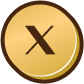
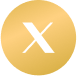
done

diff --git a/src/App.css b/src/App.css
@@ -59,7 +59,19 @@ ul {
   padding-left: 0 !important;
   margin: 0 !important;
 }
-
+.social-icons {
+  position: relative;
+  z-index: 1;
+}
+.social-icons a {
+  border: 3px solid #472610;
+  border-radius: 50px;
+  transition: .4s all;
+}
+.social-icons a:focus,
+.social-icons a:hover{
+  border-color: #fff;
+}
 .main-header {
   padding: 10px 0;
   position: sticky;
@@ -124,7 +136,7 @@ header.main-header.scrolled {
 }
 
 .banner-section a img {
-  box-shadow: 0 5px 12px 0 rgb(14 43 106 / 65%);
+  /* box-shadow: 0 5px 12px 0 rgb(14 43 106 / 65%); */
   border-radius: 50px;
 }
 .follow-us {
@@ -728,12 +740,22 @@ img.vert-move {
   width: 100%;
   max-width: 75%;
 }
+.bigboss-presale h2 {
+  font-size: 28px;
+  font-weight: 700;
+  color: #472610;
+  margin: 0;
+  padding: 10px 0px;
+}
 .banner-calc-inner {
   background: url(../src/images/big-boss-presale-bg.png) no-repeat center;
   background-size: cover;
-  border-radius: 30px 30px 0 0;
   padding-inline: 30px;
   padding-top: 20px;
+  border-top: 5px solid #472610;
+  border-bottom: 5px solid #472610;
+  padding-bottom: 15px;
+
 }
 .banner-calc-inner h3,
 .banner-calc-inner h4,
@@ -746,10 +768,10 @@ img.vert-move {
   bottom: 41px;
 }
 .banner-calc-inner h3 {
-  font-size: 34px;
+  font-size: 39px;
   color: #fff;
   text-shadow: 1px 2px 1px BLACK;
-  margin-bottom: 25px;
+  margin-bottom: 20px;
   font-weight: 600;
   letter-spacing: 0.4px;
   text-align: center;
@@ -801,7 +823,7 @@ img.vert-move {
   border-radius: 29px;
   height: 100%;
   background-color: #fff;
-  padding: 12px 11px;
+  padding: 20px 11px;
   text-align: center;
 }
 .banner-calc-inner ul li p {
@@ -819,12 +841,13 @@ img.vert-move {
   color: #e4851b;
   font-size: 26px;
   font-weight: 700;
+  margin-top: 10px;
 }
 .listing-price {
   padding-bottom: 10px;
 }
 .listing-price p {
-  font-size: 22px;
+  font-size: 30px;
   font-weight: 400;
   color: #fff;
 }
@@ -836,8 +859,10 @@ img.vert-move {
   font-weight: 600;
   text-align: left;
 }
+p.amount-raised {
+  font-size: 18px;
+}
 .listing-price p span {
-  color: var(--secondary-color);
   font-family: cursive;
   font-weight: 700;
   letter-spacing: -1.8px;
@@ -851,23 +876,32 @@ img.vert-move {
   padding-left: 10px;
   color: #00833a;
 }
-.banner-calc-inner .progress {
-  height: 30px;
+.buy-bigboss .progress {
+  height: 35px;
   border-radius: 30px;
-  border: 2px solid #fff;
+  border: 2px solid #000;
   margin-bottom: 10px;
   background-color: #fff;
+  padding: 2px;
+  margin-top: 15px;
 }
-.banner-calc-inner .progress-bar {
+.banner-calc-btn a.btn {
+  background: #1C009A;
+  border-radius: 50px;
+  font-size: 22px;
+  font-weight: 800;
+  padding: 10px 0;
+}
+.buy-bigboss .progress-bar {
   width: 76%;
   background: var(--primary-color);
   font-size: 20px;
   border-radius: 12px;
   border-right: 3px solid #fff;
-  color: #e5861b;
-  font-weight: 600;
-  justify-content: end;
-  align-items: end;
+  color: #fff;
+  font-weight: 700;
+  justify-content: center;
+  align-items: center;
 }
 .banner-cacl-btn {
   margin-bottom: 30px;
@@ -1164,6 +1198,12 @@ section.marquee-line.marque-line-custom .marquee.marquee-first {
   }
 }
 @media (max-width: 1199px) {
+  .bigboss-presale h2 {
+    font-size: 22px;
+}
+.banner-calc-btn a.btn {
+  font-size: 18px;
+}
   .chosen-onebox ul li img.first-child-img {
     max-width: 100px;
   }
@@ -1373,6 +1413,10 @@ section.marquee-line.marque-line-custom .marquee.marquee-first {
   }
 }
 @media (max-width: 767px) {
+  .banner-calc-btn a.btn {
+    font-size: 18px;
+    padding: 6px 0;
+}
   .chosen-onebox ul li img.first-child-img {
     max-width: 75px;
   }
@@ -1581,8 +1625,14 @@ section.marquee-line.marque-line-custom .marquee.marquee-first {
     font-size: 20px;
   }
   .paybox-inner h5 {
-    font-size: 15px;
+    font-size: 13px;
   }
+  .paybox-inner h4 {
+    font-size: 15px;
+}
+.paybox-inner p {
+  font-size: 13px;
+}
   .banner-calc-inner h3.amount-text {
     font-size: 30px;
   }

diff --git a/src/component/banner.js b/src/component/banner.js
@@ -76,9 +76,9 @@ export default function Banner() {
                         </div>
                         <div className="d-sm-flex justify-content-center">
                             <div className="ms-lg-4 mb-sm-0 mb-4 d-flex align-items-center flex-column">
-                                <div>
+                                <div className='social-icons'>
                                     <a href="/" className="mb-2 d-inline-block">
-                                        <img src={twittericon} alt="Twitter" />
+                                        <img src={twittericon} alt="" />
                                     </a>
                                     <br />
                                     <a href="/" className="mb-2 d-inline-block">
@@ -91,6 +91,9 @@ export default function Banner() {
                             </div>
                             <div className="banner-calc">
                                 <div className='bigboss-presale'>
+                                    <div className='text-center'>
+                                        <h2>BUY BEFORE PRICE INCREASE</h2>
+                                    </div>
                                     <div className="banner-calc-inner">
                                         <h3>{presaleData.PEPEMEMECOIN}</h3>
                                         <ul>
@@ -103,16 +106,16 @@ export default function Banner() {
                                                 <h5>{presaleData.PEMEEQUAL}</h5>
                                             </li>
                                         </ul>
-                                        <p className="amount-raised">Total Amount Raised :</p>
-                                        <h3 className="amount-text text-start">{amountRaised}</h3>
-                                        <div className="progress">
-                                            <div style={{ width: `${presaleData.TEXTBOXVAL}%` }}  className="progress-bar" role="progressbar" aria-valuenow="25" aria-valuemin="0" aria-valuemax="100">{presaleData.TEXTBOXVAL}%</div>
-                                        </div>
                                         <div className="listing-price text-center">
-                                            <p>{presaleData.UPTO} : <span>{presaleData.PERCENTAGE}</span></p>
+                                            <p>Listing Price : <span>{presaleData.UPTO}{presaleData.PERCENTAGE}</span></p>
                                         </div>
+                                        <p className="amount-raised text-center text-white mb-2 fw-bold">Total Amount Raised :</p>
+                                        <h3 className="amount-text text-center text-white">{amountRaised}</h3>
                                     </div>
                                     <div className='buy-bigboss'>
+                                        <div className="progress">
+                                            <div style={{ width: `${presaleData.TEXTBOXVAL}%` }}  className="progress-bar" role="progressbar" aria-valuenow="25" aria-valuemin="0" aria-valuemax="100">{presaleData.TEXTBOXVAL}70%</div>
+                                        </div>
                                         <div className="pay-box">
                                             <div className="paybox-inner">
                                                 <h5 className="text-start">You Pay <span>{presaleData.STAGEBONUSVAL}</span></h5>

diff --git a/src/component/about.js b/src/component/about.js
@@ -1,32 +1,34 @@
-import React from 'react'
+import React from "react";
 import abouttextimg from "../images/about-text-img.png";
 import aboutrightimg from "../images/about-img-right.png";
 export default function About() {
-    return (
-        <>
-            <section className="about-section" id="about">
-                <div className="container">
-                    <div className="row align-items-center">
-                        <div className="col-lg-6">
-                            <div className="about-content text-center">
-                                <img src={abouttextimg} alt="" className="vert-move" />
-                                <p>
-                                    Lorem ipsum dolor sit amet, consectetuer adipiscing elit, sed
-                                    diam nonummy nibh euismod tincidunt ut laoreet dolore magna
-                                    aliquam erat volutpat. Ut wisi enim ad minim veniam, quis
-                                    nostrud exerci tation ullamcorper suscipit lobortis nisl ut
-                                    aliquip ex ea commodo consequat. Duis autem vel eum iriure
-                                    dolor in hendrerit in vulputate velit esse molestie consequat.
-                                </p>
-                            </div>
-                        </div>
-                        <div className="col-lg-6">
-                            <img src={aboutrightimg} alt="" className="vert-move" />
-                        </div>
-                    </div>
-                </div>
-            </section>
-
-        </>
-    )
+  return (
+    <>
+      <section className="about-section" id="about">
+        <div className="container">
+          <div className="row align-items-center">
+            <div className="col-lg-6">
+              <div className="about-content text-center">
+                <img src={abouttextimg} alt="" className="vert-move" />
+                <p>
+                  BIG BOSS INU IS THE NEXT BIG THING IN CRYPTO-READY TO TAKE
+                  OVER THE ENTIRE MEME AND CRYPTO WORLD. WE'RE HERE TO LEAD,
+                  STAND OUT, AND MAKE A REAL IMPACT. WITH BIG BOSS INU, WE'RE
+                  NOT JUST CREATING A TOKEN; WE'RE BUILDING A MOVEMENT THAT'S
+                  ALL ABOUT STRENGTH, AMBITION, AND UNITY. OUR MISSION IS CLEAR:
+                  BECOME THE TOP MEMECOIN, MAKE CRYPTO ACCESSIBLE FOR EVERYONE,
+                  AND SET A NEW STANDARD IN THE INDUSTRY. BIG BOSS INU IS HERE
+                  TO MAKE WAVES, GROW FAST. AND LEAD THE WAY. JOIN US AS WE RISE
+                  TO THE TOP AND BECOME THE TRUE BOSS OF ALL MEMES.
+                </p>
+              </div>
+            </div>
+            <div className="col-lg-6">
+              <img src={aboutrightimg} alt="" className="vert-move" />
+            </div>
+          </div>
+        </div>
+      </section>
+    </>
+  );
 }

diff --git a/src/component/footer.js b/src/component/footer.js
@@ -18,12 +18,12 @@ export default function Footer() {
                                     <div className='footer-follow-us'>
                                         <p>Follow Us</p>
                                     </div>
-                                    <div className='d-flex align-items-center justify-content-center'>
+                                    <div className='d-flex align-items-center justify-content-center social-icons'>
                                         <li>
-                                            <a href="/"><img src={twittericon} alt="" /></a>
+                                            <a href="/" className='d-inline-block'><img src={twittericon} alt="" /></a>
                                         </li>
                                         <li>
-                                            <a href="/"><img src={telegramicon} alt="" /></a>
+                                            <a href="/" className='d-inline-block'><img src={telegramicon} alt="" /></a>
                                         </li>
                                     </div>
                                 </ul>
